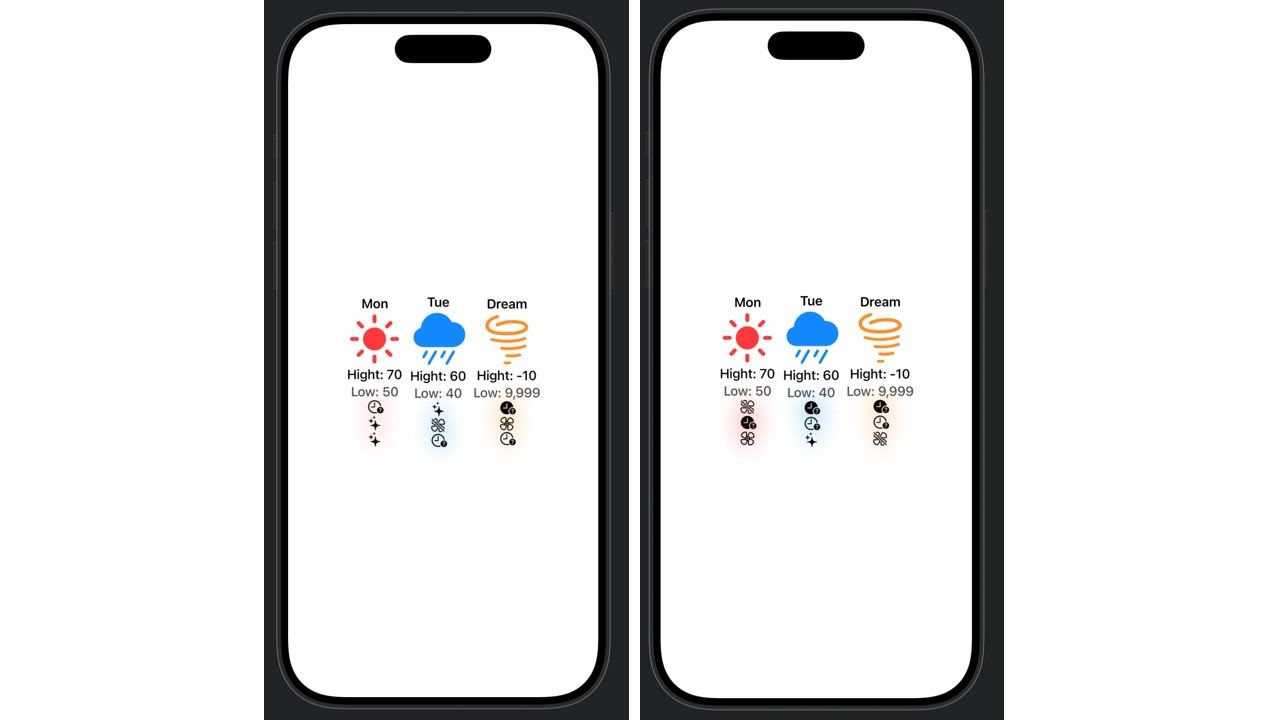
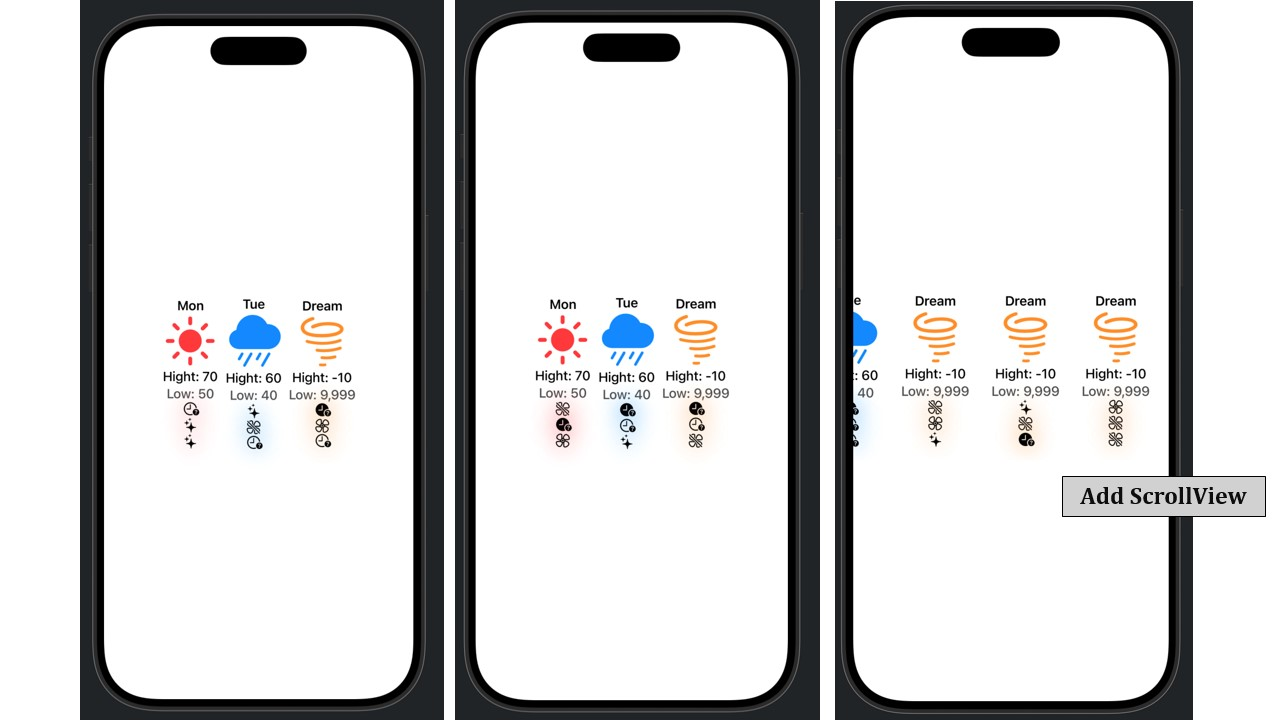
day2 update

Changed region(s): [[0.0625, 0.0, 1.0, 1.0]]

diff --git a/SwiftUI/2.WeatherForecast/2.WeatherForecast/ContentView.swift b/SwiftUI/2.WeatherForecast/2.WeatherForecast/ContentView.swift
@@ -9,19 +9,30 @@ import SwiftUI
 
 struct ContentView: View {
     var body: some View {
-        HStack {
-            // subview
-            DayForcsat(day: "Mon", weather: "sunny", hight:70, low:50)
-//                .padding(.horizontal, 5)
-            
-            DayForcsat(day:"Tue", weather: "rainy", hight:60, low:40)
-//                .padding(.horizontal, 5)
-            
-            DayForcsat()
-//                .padding(.horizontal, 5)
-
+        ScrollView(.horizontal, showsIndicators: false) {
+            HStack {
+                
+                // subview
+                DayForcsat(day: "Mon", weather: "sunny", hight:70, low:50)
+                    .padding(.horizontal, 10)
+                
+                DayForcsat(day:"Tue", weather: "rainy", hight:60, low:40)
+                    .padding(.horizontal, 10)
+                
+                DayForcsat()
+                    .padding(.horizontal, 10)
+                DayForcsat()
+                    .padding(.horizontal, 10)
+                DayForcsat()
+                    .padding(.horizontal, 10)
+                DayForcsat()
+                    .padding(.horizontal, 10)
+                DayForcsat()
+                    .padding(.horizontal, 10)
+                
+            }
+            .padding()
         }
-        .padding()
     }
 }
 
